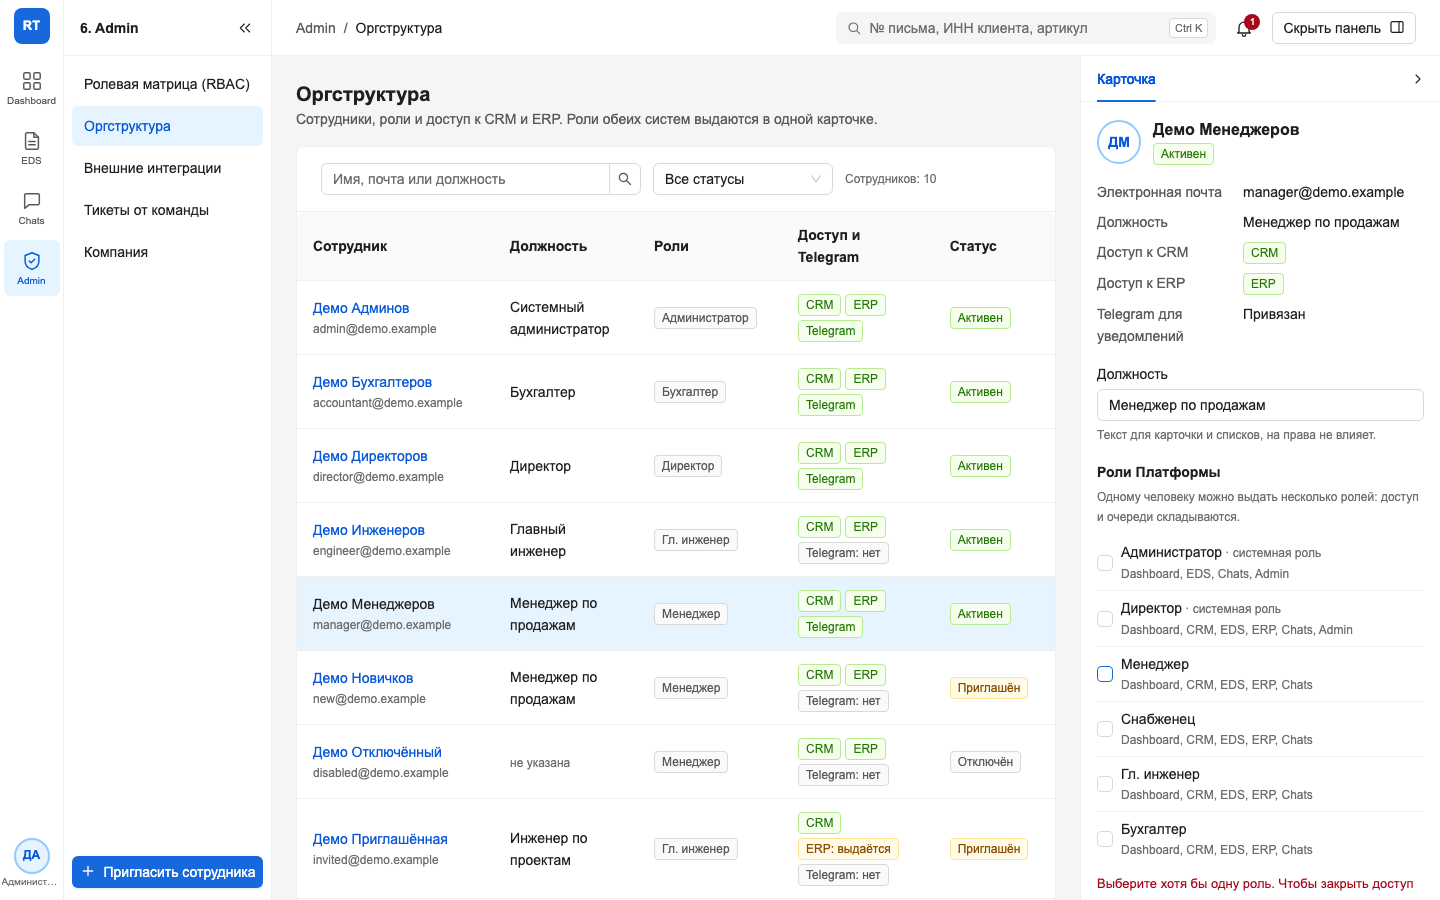
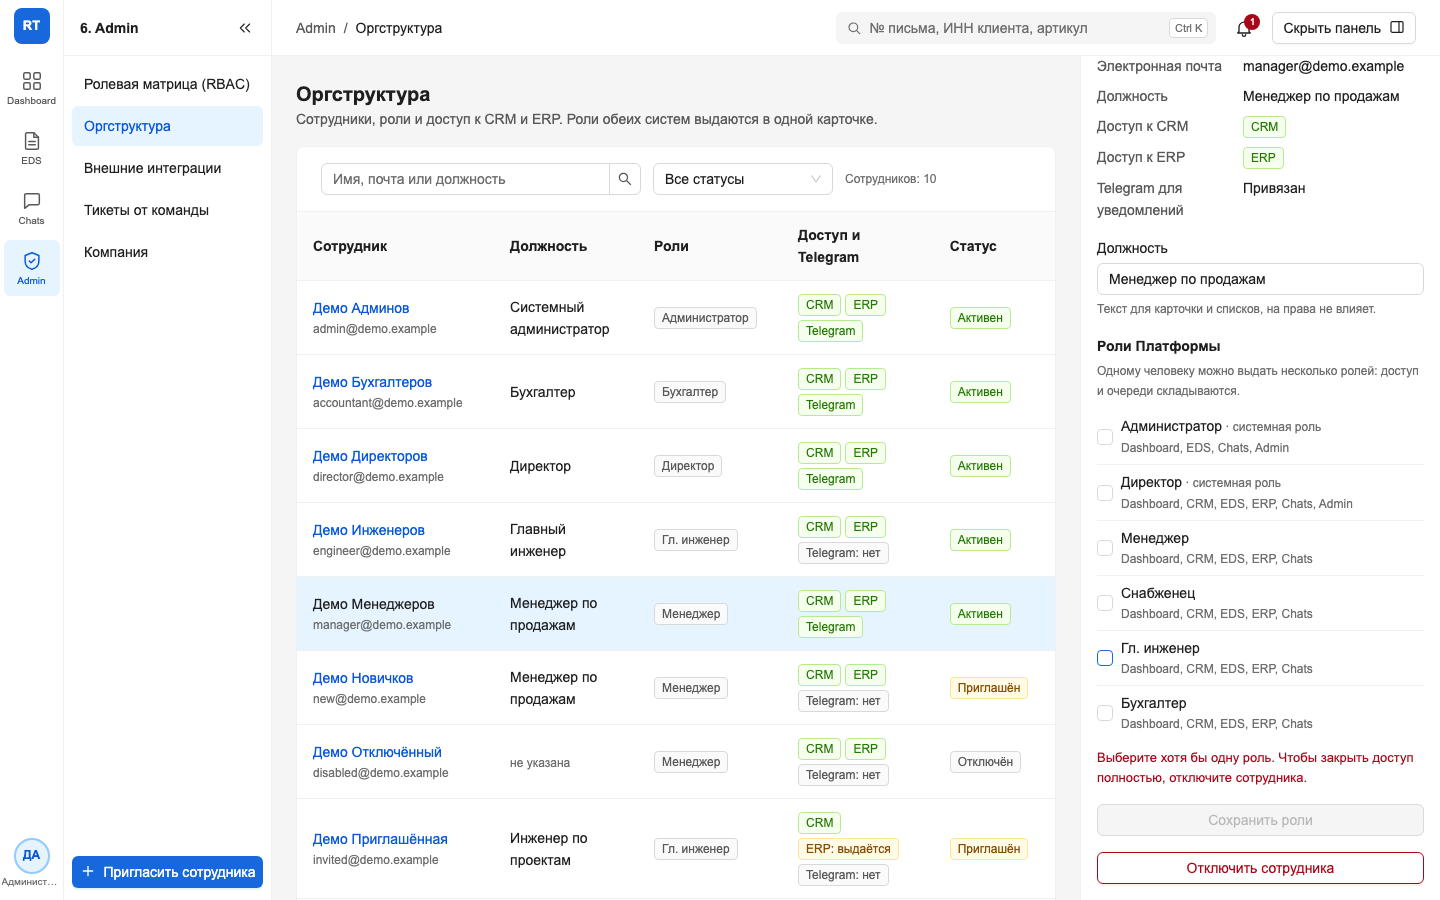
fix(platform): подсказка Admin «полный» — по факту суперпользователь ERP; Q-R1c-1 п. 5; кадр 390 (T1 R-1c)
Роль без кода с admin: full по crm_base_role.by_access получает базовую роль CRM admin,
провижининг выдаёт ей ERP-роль admin — подсказка adminNote (ru/uz/en) больше не
утверждает обратное; поведение не менялось. Вопрос архитектору — Q-R1c-1 п. 5.
Кадр org-card-no-roles-390 переснят с текстом запрета и неактивной «Сохранить роли».

Changed region(s): [[0.75, 0.0622, 1.0, 0.9956]]

diff --git a/apps/platform/web/src/entities/employee/consequence.ts b/apps/platform/web/src/entities/employee/consequence.ts
@@ -3,9 +3,10 @@ import type { TFunction } from "i18next";
 import type { RolesAccess } from "../role/roles";
 
 /**
- * Строки «Что произойдёт» про права в бэкендах из матрицы выбранных ролей (ADR-0012, решение R-1): системная роль
- * «Администратор» — полный администратор CRM и ERP; раздел Admin «полный» в созданной роли полного администратора CRM не
- * даёт; права ERP вычисляются из разделов ролей, итог провижининга виден в карточке («ERP: выдаётся», «ERP: ошибка»).
+ * Строки «Что произойдёт» про права в бэкендах из матрицы выбранных ролей (ADR-0012, R-1, R3-D-2): системная роль
+ * «Администратор» — суперпользователь ERP, в CRM — раздел `admin` каталога (без лидов, клиентов, сделок); раздел Admin
+ * «полный» в созданной роли в ERP тоже даёт суперпользователя (базовая роль CRM `admin` по `crm_base_role.by_access`);
+ * прочие права ERP вычисляются из разделов ролей, итог провижининга виден в карточке («ERP: выдаётся», «ERP: ошибка»).
  */
 export function backendConsequence(t: TFunction, access: RolesAccess): string[] {
   const lines: string[] = [];

diff --git a/apps/platform/web/src/modules/admin/roles/RolesPage.test.tsx b/apps/platform/web/src/modules/admin/roles/RolesPage.test.tsx
@@ -97,7 +97,7 @@ describe("Admin · Ролевая матрица (R-2, ADR-0012)", () => {
     });
   });
 
-  it("Admin «полный» в созданной роли — предупреждение про полного администратора CRM", async () => {
+  it("Admin «полный» в созданной роли — предупреждение: суперпользователь ERP, без лидов CRM", async () => {
     signInAs("admin@demo.example");
     renderApp("/admin/roles?role=new&panel=open&tab=role");
     const panel = await panelEl();
@@ -110,7 +110,11 @@ describe("Admin · Ролевая матрица (R-2, ADR-0012)", () => {
       { target: { value: "full" } },
     );
 
-    expect(within(panel).getAllByText(/только системная роль «Администратор»/)[0]).toBeVisible();
+    expect(
+      within(panel).getAllByText(
+        /права администратора \(суперпользователь\), как у системной роли/,
+      )[0],
+    ).toBeVisible();
   });
 
   it("роль с сотрудниками: удалить нельзя — причина и неактивная кнопка; без сотрудников — можно", async () => {

diff --git a/apps/platform/web/e2e/roles-tails.spec.ts b/apps/platform/web/e2e/roles-tails.spec.ts
@@ -52,6 +52,8 @@ test.describe("Роли: хвосты QA (R3-D-1, R3-D-3, R3-D-4)", () => {
       await expect(panel.getByText(/Выберите хотя бы одну роль/)).toBeVisible();
       await expect(panel.getByRole("button", { name: "Сохранить роли" })).toBeDisabled();
       await expectNoViolations(page, `no roles ${String(width)}`);
+      // В кадре — текст запрета и неактивная кнопка (на 390 они ниже первого экрана панели).
+      await panel.getByRole("button", { name: "Сохранить роли" }).scrollIntoViewIfNeeded();
       await settledScreenshot(page, "org-card-no-roles");
 
       // Прямой вызов с пустым набором (как QA R3-D-1) — 422 ROLES_REQUIRED, роли на месте.

diff --git a/apps/platform/web/src/features/assign-role/AssignRoleForm.test.tsx b/apps/platform/web/src/features/assign-role/AssignRoleForm.test.tsx
@@ -88,7 +88,9 @@ describe("AssignRoleForm: выдача ролей", () => {
 
     fireEvent.click(await screen.findByRole("checkbox", { name: /^Офис-менеджер/ }));
 
-    expect(screen.getByText(/только системная роль «Администратор»/)).toBeVisible();
+    expect(
+      screen.getByText(/права администратора \(суперпользователь\), как у системной роли/),
+    ).toBeVisible();
   });
 
   it("отправляет только изменённые поля: полный набор id ролей в порядке списка", async () => {
